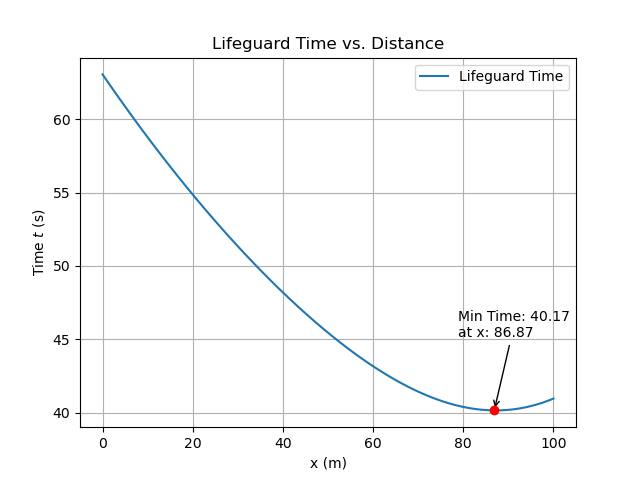
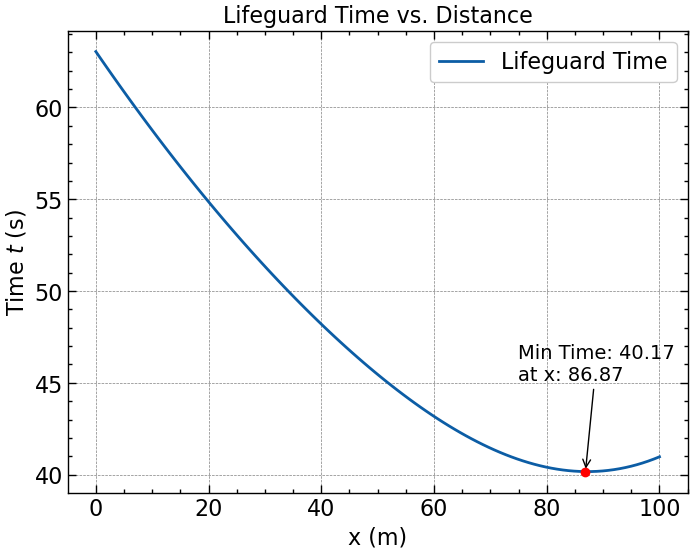
update

diff --git a/single_variable_problems/02_projectile.py b/single_variable_problems/02_projectile.py
@@ -2,7 +2,10 @@
 
 import numpy as np
 import matplotlib.pyplot as plt
+import scienceplots
 from scipy.integrate import odeint
+
+plt.style.use(["science", "notebook", "grid"])
 
 
 def dSdt(t: list, S: list) -> list:
@@ -92,9 +95,9 @@ max_y = x_locs[max_index]
 plt.plot(angles, x_locs)
 plt.scatter(optimum_angle, max_y, color='red', zorder=5)  # Adding the point
 plt.annotate(f"Max. range: {max_y:.2f} m\nat angle: {optimum_angle:.2f}°", xy=(optimum_angle, max_y),
-             xytext=(optimum_angle-3, max_y-4),
+             xytext=(optimum_angle-5, max_y-4),
              arrowprops=dict(facecolor='black', arrowstyle='->'),
-             fontsize=10)
+             fontsize=14)
 plt.xlabel(r"Launch angles $\theta_0$ (°)")
 plt.ylabel("Range (m)")
 plt.title(r"Launch angles vs. travelled distance (range) for $V_0 = 50\; m/s$")
@@ -103,13 +106,13 @@ plt.grid(True)
 plt.show()
 
 # Plot x and y
-# plt.plot(x_sol, y_sol, label=f"Launch angle: {theta_0*180/np.pi}°\nInitial Velocity: {V_0} m/s")
-# plt.title("Projectile with air friction")
-# plt.ylabel(r"$y\; (m)$")
-# plt.xlabel(r"$x\; (m)$")
-# plt.ylim(top=30)
-# plt.ylim(bottom=0)
-# plt.legend()
-# plt.gca().set_aspect('equal', 'box')
-# plt.tight_layout()
-# plt.show()
+plt.plot(x_sol, y_sol, label=f"Launch angle: {theta_0*180/np.pi}°\nInitial Velocity: {V_0} m/s")
+plt.title("Projectile with air friction")
+plt.ylabel(r"$y\; (m)$")
+plt.xlabel(r"$x\; (m)$")
+plt.ylim(top=30)
+plt.ylim(bottom=0)
+plt.legend()
+plt.gca().set_aspect('equal', 'box')
+plt.tight_layout()
+plt.show()

diff --git a/single_variable_problems/01_lifeguard_problem.py b/single_variable_problems/01_lifeguard_problem.py
@@ -1,5 +1,8 @@
 import numpy as np
 import matplotlib.pyplot as plt
+import scienceplots
+
+plt.style.use(["science", "notebook", "grid"])
 
 
 def lifeguard_time(x: list) -> list:
@@ -17,9 +20,9 @@ min_y = y[min_index]
 plt.plot(x, y, label='Lifeguard Time')
 plt.scatter(optimum_x, min_y, color='red', zorder=5)  # Adding the point
 plt.annotate(f'Min Time: {min_y:.2f}\nat x: {optimum_x:.2f}', xy=(optimum_x, min_y),
-             xytext=(optimum_x-8, min_y+5),
+             xytext=(optimum_x-12, min_y+5),
              arrowprops=dict(facecolor='black', arrowstyle='->'),
-             fontsize=10)
+             fontsize=14)
 
 plt.xlabel('x (m)')
 plt.ylabel(r'Time $t$ (s)')
